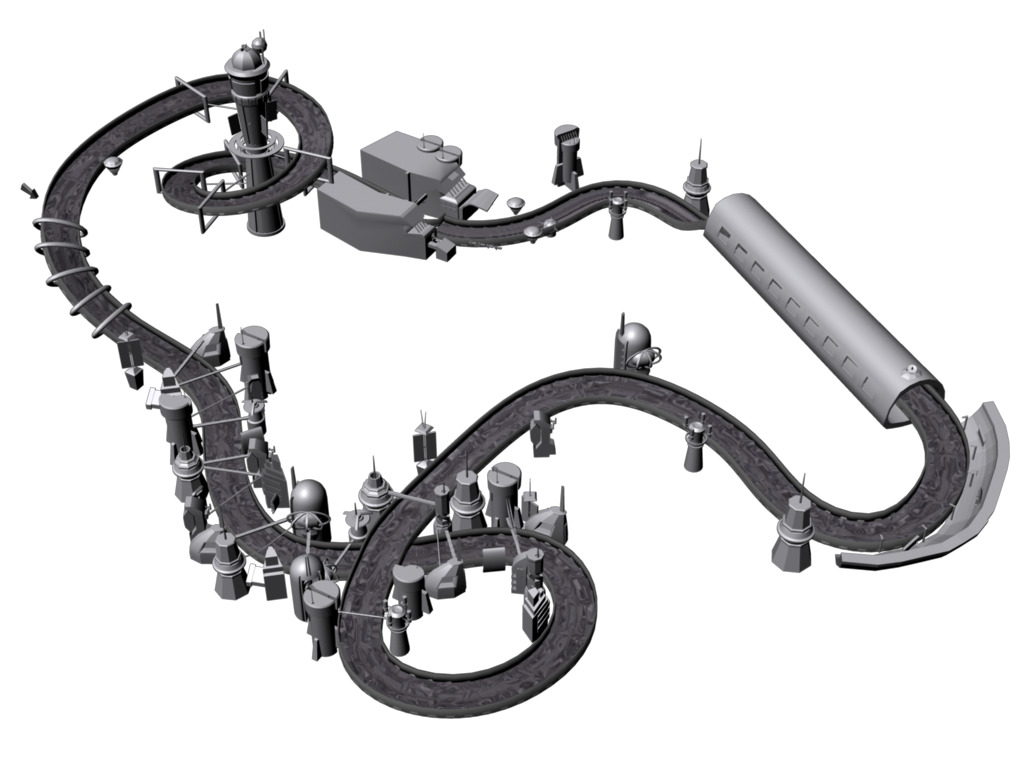
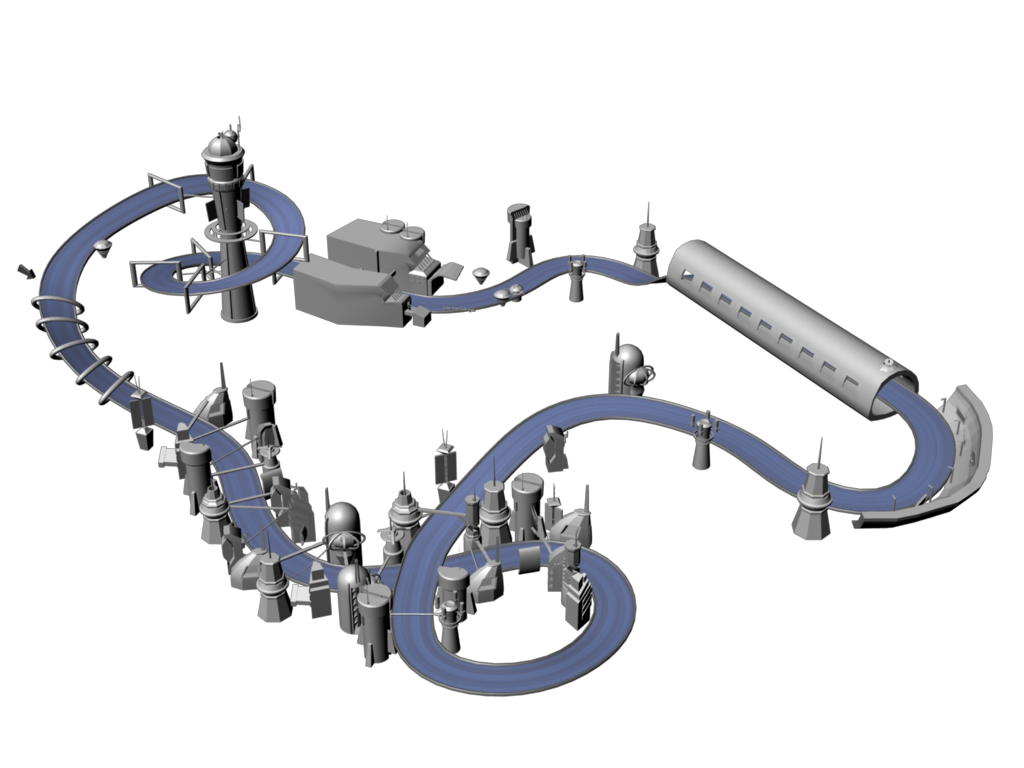
Splash screen now not shit has image instead.

diff --git a/GameCode/Manager/Menus/SplashMenu.cs b/GameCode/Manager/Menus/SplashMenu.cs
@@ -11,18 +11,18 @@ namespace BeatShift.Menus
 {
     class SplashMenu : IMenuPage
     {
-        //Video video ;
-        VideoPlayer player = new VideoPlayer() ;
-        //texture for current frame in video
-        Texture2D videoTexture = null;
+        ////Video video ;
+        //VideoPlayer player = new VideoPlayer() ;
+        ////texture for current frame in video
+        //Texture2D videoTexture = null;
 
         public SplashMenu()
         {
-            //title = "";
-            //video = BeatShift.contentManager.Load<Video>("Videos/splashVideo");
-            player = new VideoPlayer();
-            player.IsLooped = true;
-            //player.Play(video);
+            ////title = "";
+            ////video = BeatShift.contentManager.Load<Video>("Videos/splashVideo");
+            //player = new VideoPlayer();
+            //player.IsLooped = true;
+            ////player.Play(video);
         }
 
         public override void respondToMenuBack()
@@ -45,53 +45,59 @@ namespace BeatShift.Menus
             TextScale = 0.5f;
         }
 
-        public override void otherUpdate()
-        {
-            if (MenuManager.anyInput.actionTapped(InputAction.Start))
-            {
-                respondToMenuAccept();
-            }
+        //public override void otherUpdate()
+        //{
+        //    if (MenuManager.anyInput.actionTapped(InputAction.Start))
+        //    {
+        //        respondToMenuAccept();
+        //    }
 
-            if (player.IsDisposed != true)
-            {
-                if (player.State == MediaState.Stopped)
-                {
-                    player.IsLooped = true;
-                    player.Play(GameVideos.splashVideo);
-                }
-            }
+        //    if (player.IsDisposed != true)
+        //    {
+        //        if (player.State == MediaState.Stopped)
+        //        {
+        //            player.IsLooped = true;
+        //            player.Play(GameVideos.splashVideo);
+        //        }
+        //    }
 
-        }
+        //}
 
         public override void otherDraw()
         {
-            if (player.State != MediaState.Stopped)
-                videoTexture = player.GetTexture();
+            //if (player.State != MediaState.Stopped)
+            //    videoTexture = player.GetTexture();
 
-            // Drawing to the rectangle will stretch the 
-            // video to fill the screen
+            //// Drawing to the rectangle will stretch the 
+            //// video to fill the screen
             Rectangle screen = new Rectangle(BeatShift.graphics.GraphicsDevice.Viewport.X,
                 BeatShift.graphics.GraphicsDevice.Viewport.Y,
                 BeatShift.graphics.GraphicsDevice.Viewport.Width,
                 BeatShift.graphics.GraphicsDevice.Viewport.Height);
 
-            if (videoTexture != null)
-            {
-                BeatShift.spriteBatch.Begin();
-                BeatShift.spriteBatch.Draw(videoTexture, screen, Color.White);
-            }
+            //if (videoTexture != null)
+            //{
+            //    BeatShift.spriteBatch.Begin();
+            //    BeatShift.spriteBatch.Draw(videoTexture, screen, Color.White);
+            //}
 
+            BeatShift.spriteBatch.Begin();
             //BeatShift.spriteBatch.DrawString(BeatShift.newfont, "Please press start", new Vector2(350, 300), Color.White);
-            BeatShift.spriteBatch.Draw(GameTextures.Start, new Vector2(BeatShift.graphics.GraphicsDevice.Viewport.Width / 2 - GameTextures.Start.Width / 2, 0), Color.White);
+            BeatShift.spriteBatch.Draw(GameTextures.MenuBackgroundBlue, screen, Color.White);
+            BeatShift.spriteBatch.Draw(GameTextures.CityRender , screen, Color.White);
+            BeatShift.spriteBatch.Draw(GameTextures.Start, new Vector2(BeatShift.graphics.GraphicsDevice.Viewport.Width / 2 - GameTextures.Start.Width / 2, 9* (BeatShift.graphics.GraphicsDevice.Viewport.Height / 10)), Color.White);
+            //BeatShift.spriteBatch.Draw(GameTextures.Start, new Vector2(BeatShift.graphics.GraphicsDevice.Viewport.Width / 2 - GameTextures.Start.Width / 2, BeatShift.graphics.GraphicsDevice.Viewport.Height / 2), Color.White);
+            BeatShift.spriteBatch.Draw(GameTextures.Logo, new Vector2(BeatShift.graphics.GraphicsDevice.Viewport.Width / 2 - GameTextures.Logo.Width / 2, -10), Color.White);
+            //BeatShift.spriteBatch.Draw(GameTextures.Logo, new Vector2(BeatShift.graphics.GraphicsDevice.Viewport.Width / 2 - GameTextures.Start.Width / 2, (BeatShift.graphics.GraphicsDevice.Viewport.Height /4)), Color.White);
             BeatShift.spriteBatch.End();
 
         }
 
         public override void leavingMenu()
         {
-            player.Stop();
-            player.Volume.Equals(0);
-            player.Dispose();
+            //player.Stop();
+            //player.Volume.Equals(0);
+            //player.Dispose();
             base.leavingMenu();
         }
 

diff --git a/GameCode/Utilities & Misc/GameTextures.cs b/GameCode/Utilities & Misc/GameTextures.cs
@@ -13,6 +13,7 @@ namespace BeatShift
         public static Texture2D Logo;
         public static Texture2D Start;
 
+        public static Texture2D CityRender;
         public static Texture2D MenuBackgroundBlue;
         public static Texture2D MenuBackgroundBlack;
         public static Texture2D MenuBackgroundBlackRed;
@@ -54,6 +55,7 @@ namespace BeatShift
             Logo = c.Load<Texture2D>("Images/logo");
             Start = c.Load<Texture2D>("Images/pressstart");
 
+            CityRender = c.Load<Texture2D>("Images/CityMapRender");
             MenuBackgroundBlue = c.Load<Texture2D>("Images/blue_background");
             MenuBackgroundBlack = c.Load<Texture2D>("Images/black_background");
             MenuBackgroundBlackRed = c.Load<Texture2D>("Images/black_red_background");

diff --git a/GameCode/Manager/Menus/IMenuPage.cs b/GameCode/Manager/Menus/IMenuPage.cs
@@ -179,6 +179,8 @@ namespace BeatShift.Menus
             BeatShift.spriteBatch.Begin();
             BeatShift.spriteBatch.Draw(GameTextures.Logo, new Vector2(BeatShift.graphics.GraphicsDevice.Viewport.Width / 2 - GameTextures.Logo.Width/2, -10), Color.White);
 
+            //BeatShift.spriteBatch.Draw(GameTextures.MenuBackgroundBlue, viewArea, Color.White);
+
             DrawSprites(BeatShift.spriteBatch);            Vector2 titleOrigin=Vector2.Zero;
             if (DrawTitleFromTextCentre) titleOrigin = BeatShift.newfontgreen.MeasureString(title) / 2;
             BeatShift.spriteBatch.DrawString(BeatShift.newfont, title, Vector2.Lerp(TitleStartPos, TitlePos, animateInLerp), Color.White * animateInLerp,0,titleOrigin,0.5f,SpriteEffects.None,1);

diff --git a/GameCode/Manager/Menus/MenuManager.cs b/GameCode/Manager/Menus/MenuManager.cs
@@ -119,7 +119,7 @@ namespace BeatShift.Menus
         }
 
         public static void Draw(GameTime gameTime){
-            if (currentPage.ToString().Equals("SplashScreen") || currentPage.ToString().Equals("Multiplayer") )
+            if (currentPage.ToString().Equals("PauseMenu") || currentPage.ToString().Equals("ResultsMenu") )
             {
                 Rectangle viewArea = new Rectangle(0, 0, BeatShift.graphics.GraphicsDevice.Viewport.Width, BeatShift.graphics.GraphicsDevice.Viewport.Height);
                 BeatShift.spriteBatch.Begin();
